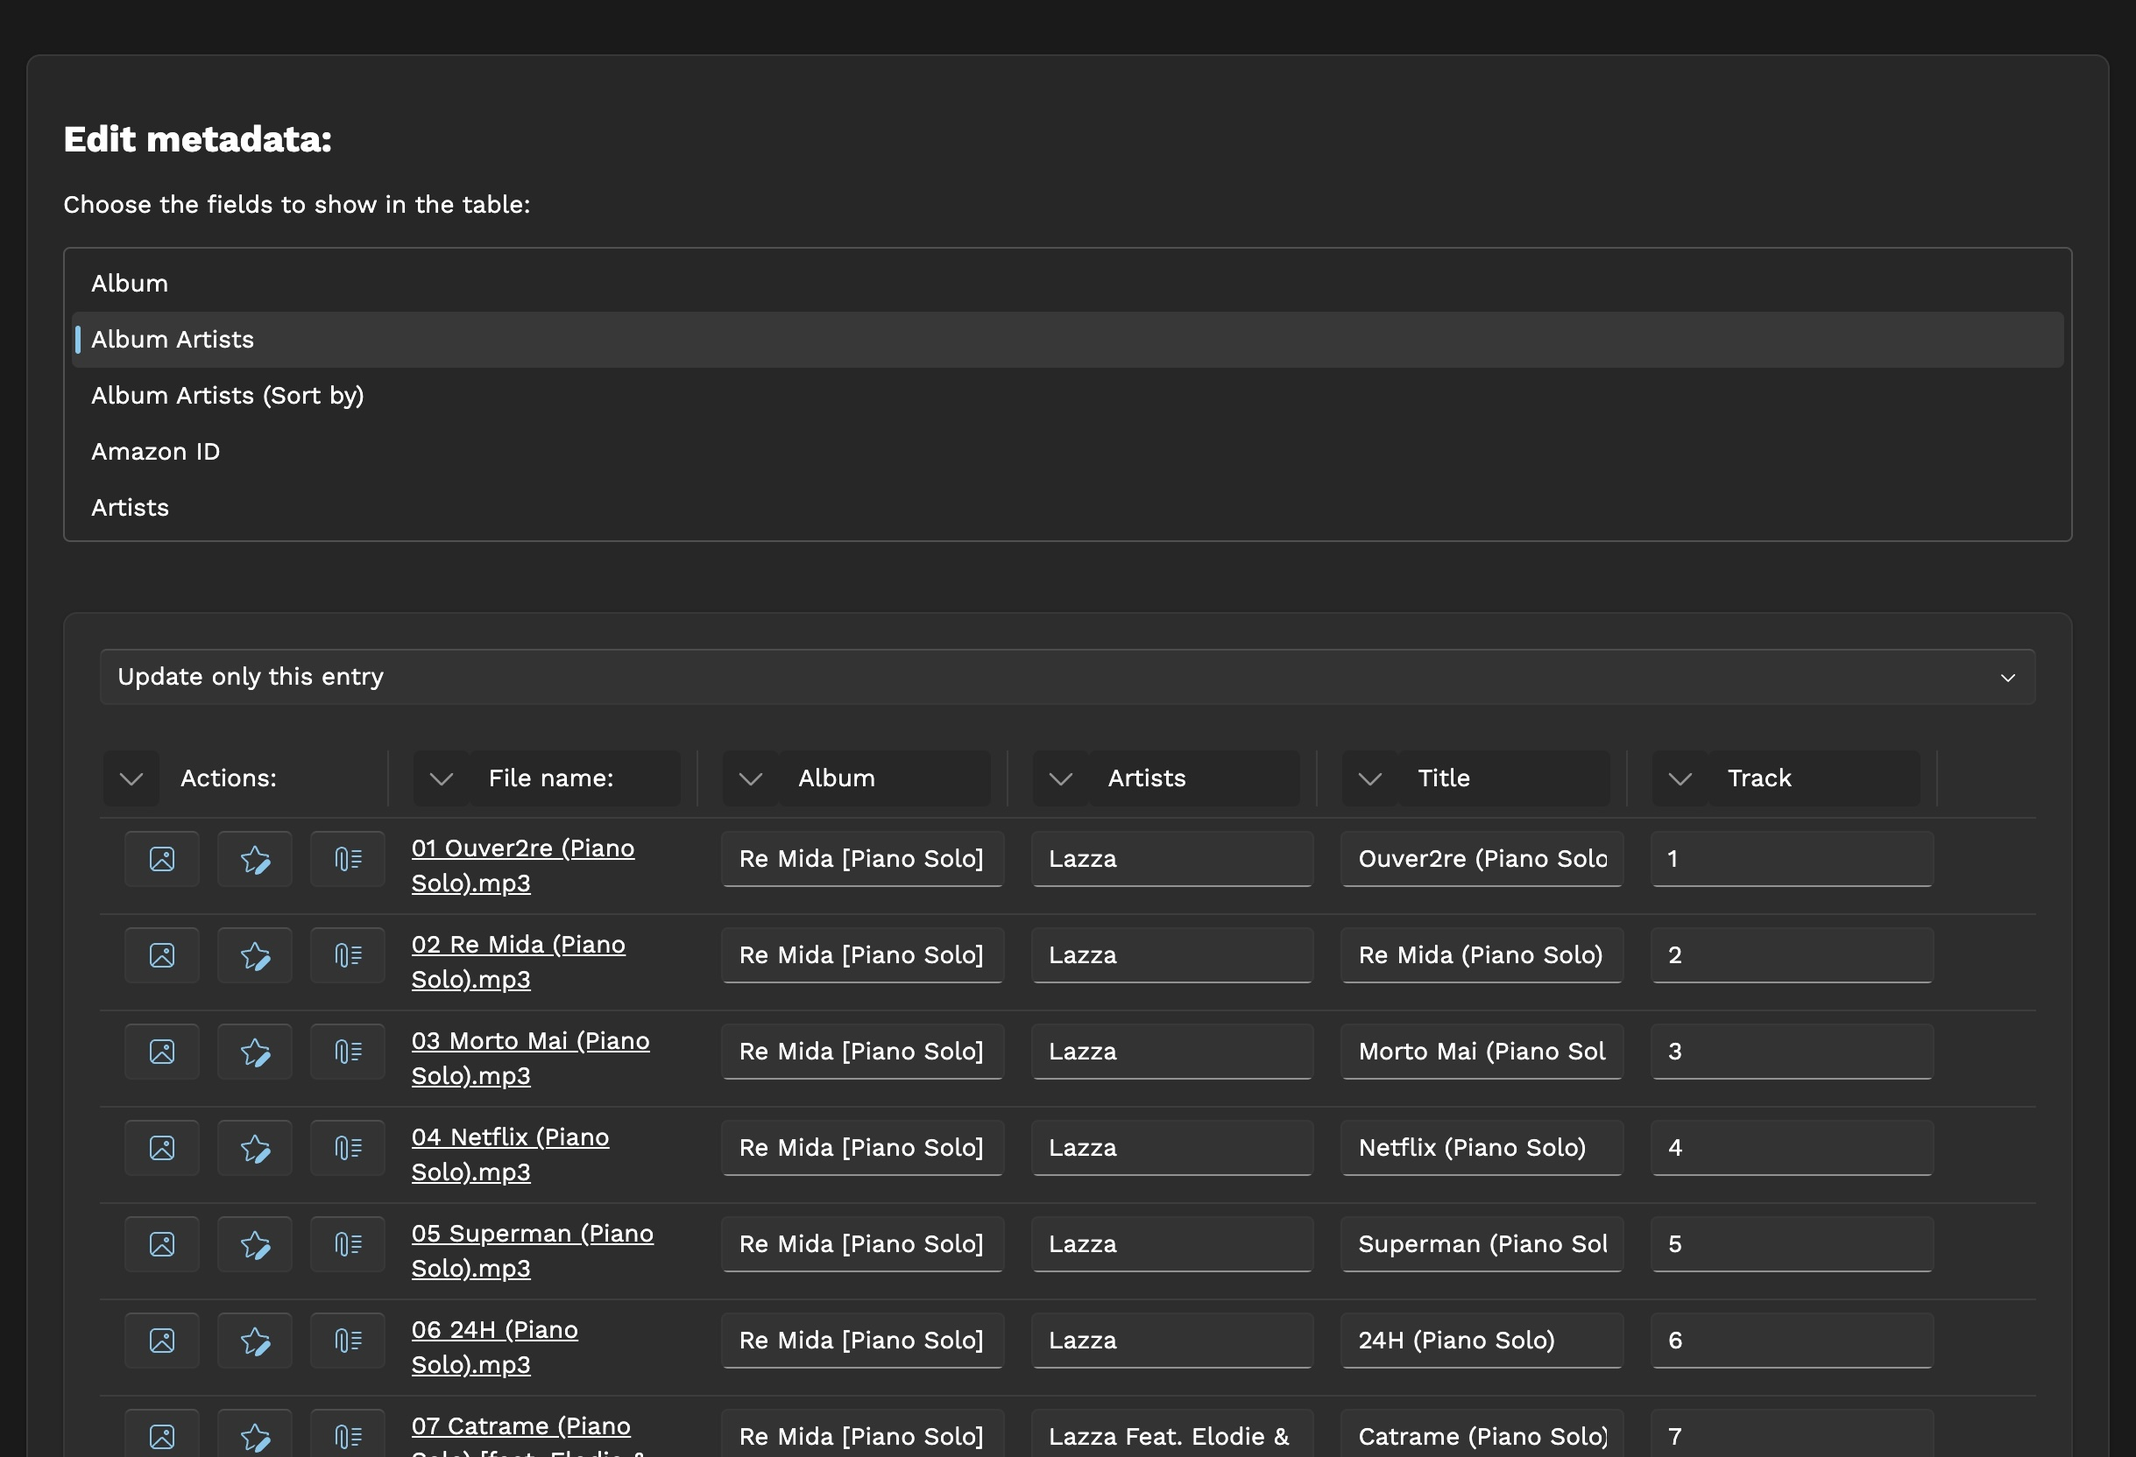
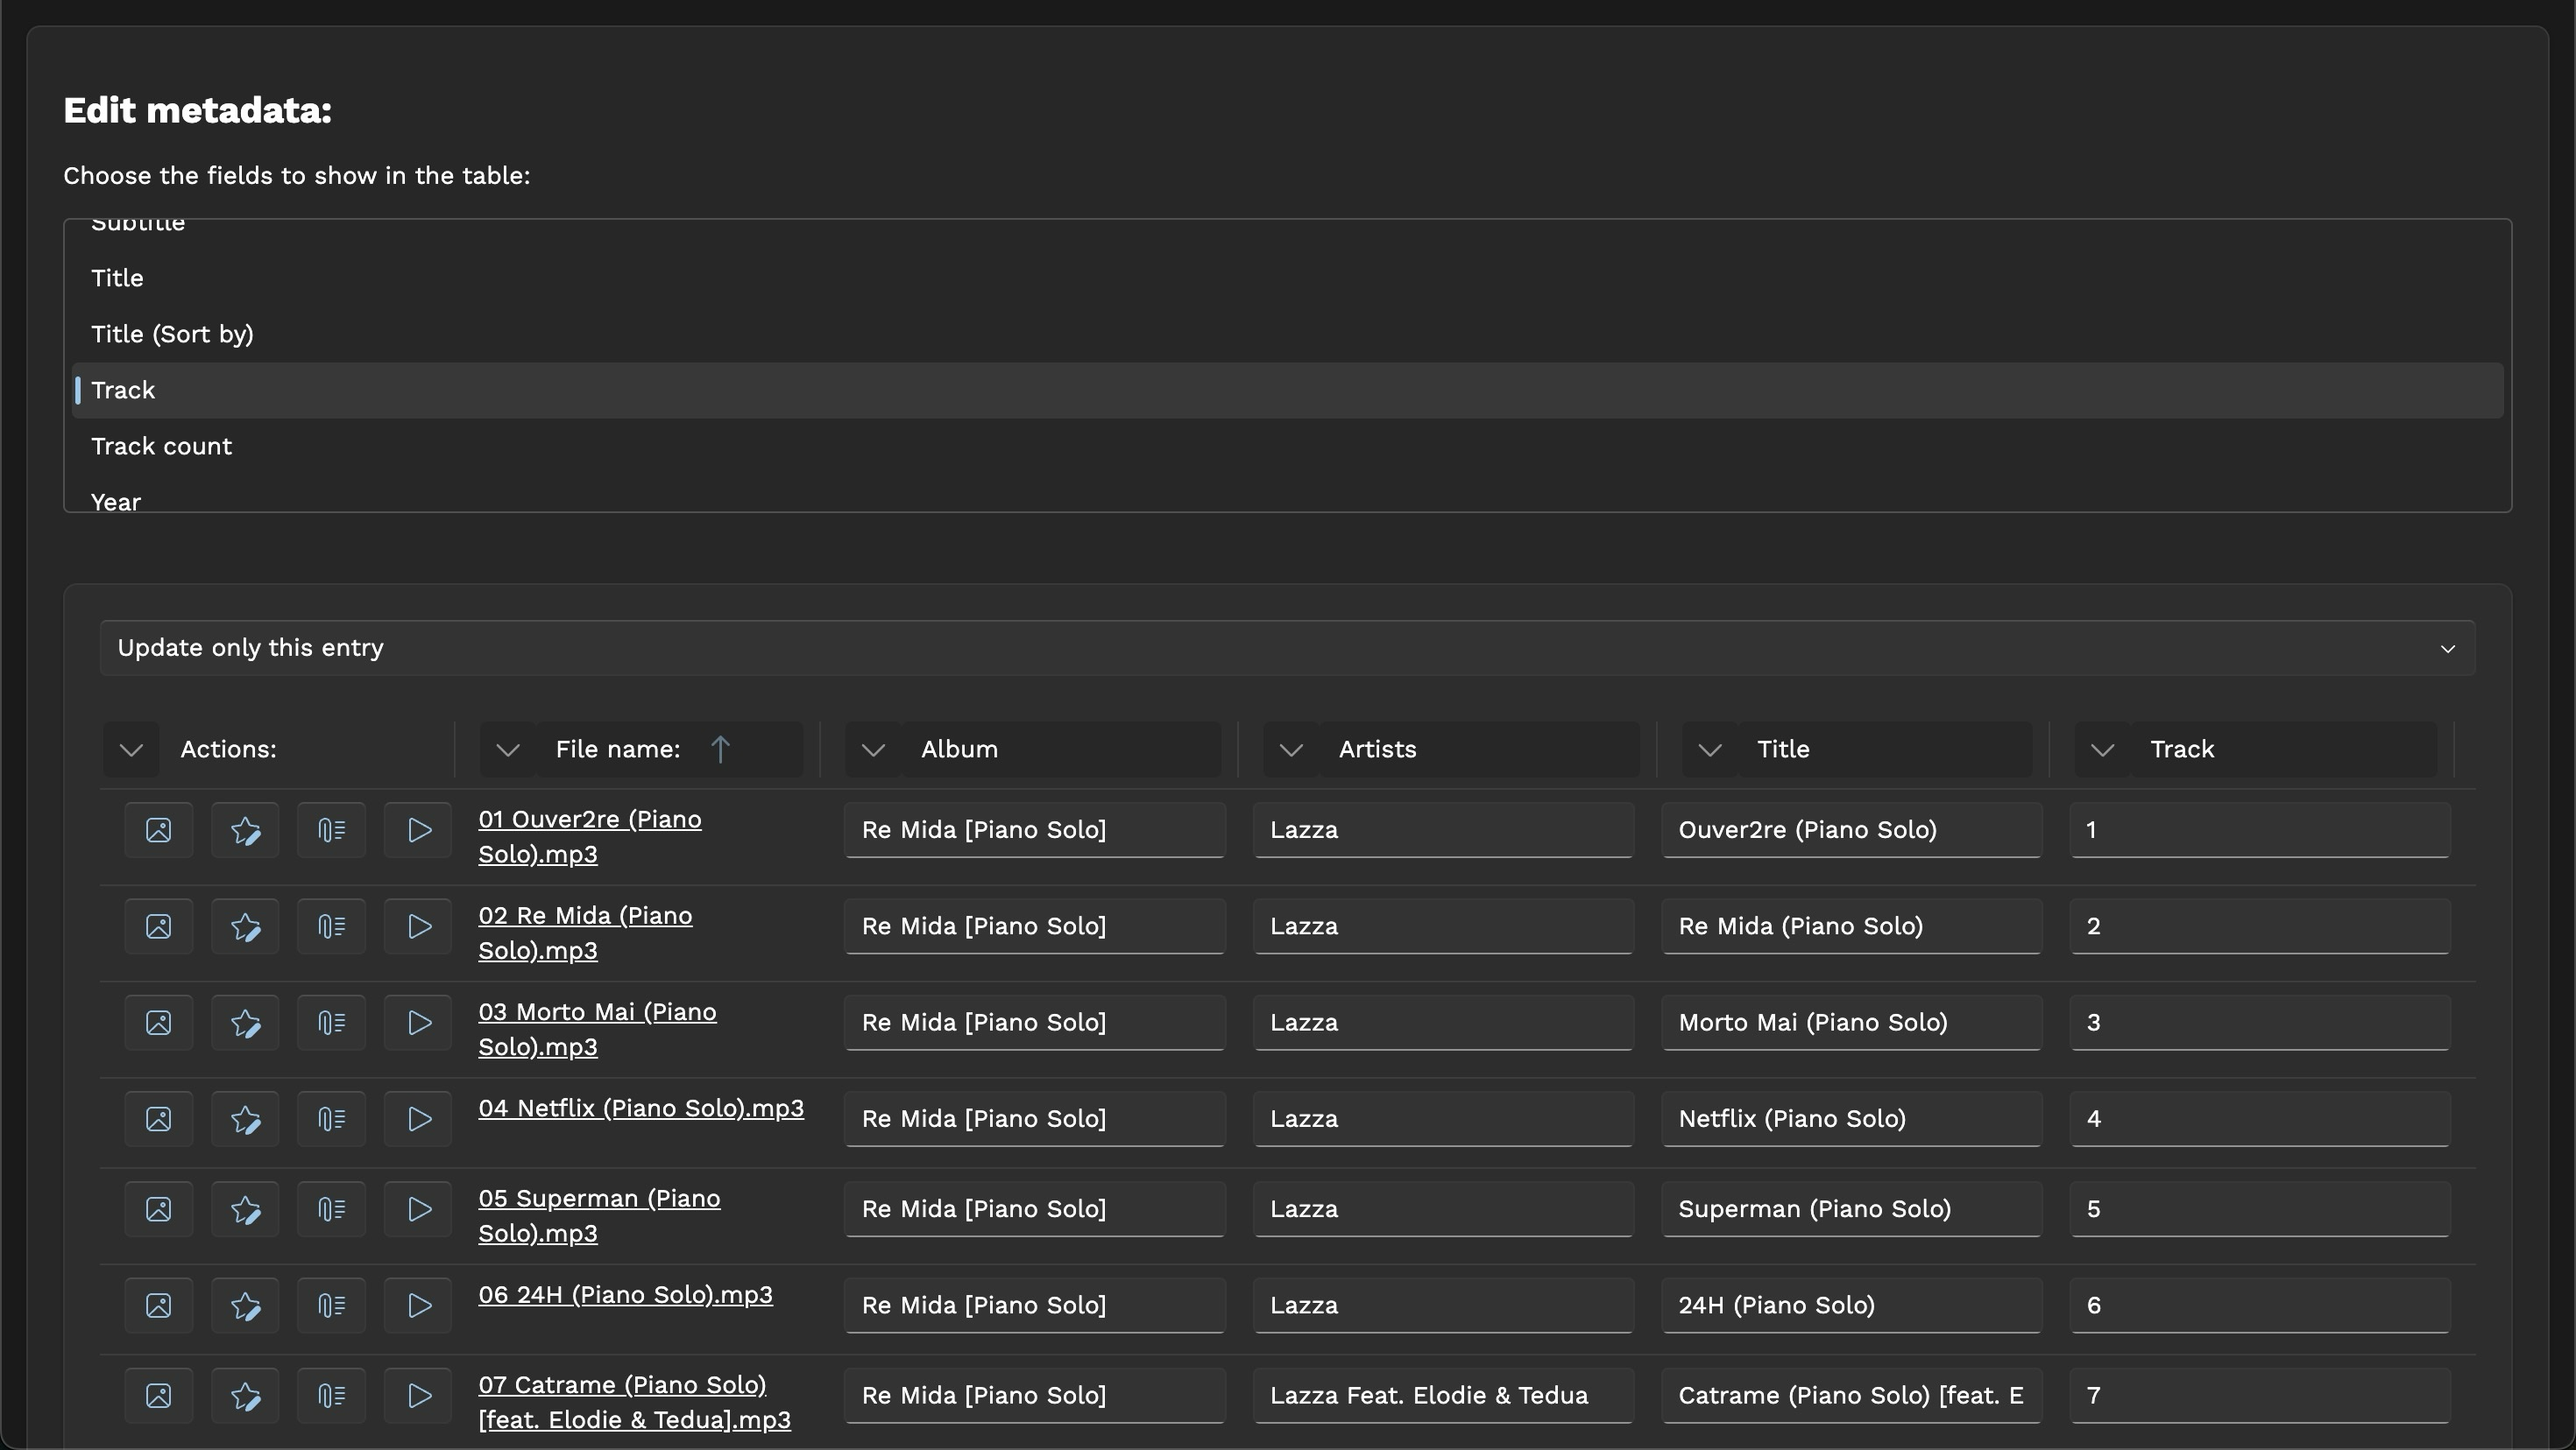
Improved "Update common album" function - Now the track count is updated only to items of the same album that are on the same disk - The disc number is updated only if it's "1" - Fixed a bug that updated all the Performers in the "Update common album fields" mode - Updated README with the new "Play 

diff --git a/wwwroot/index.html b/wwwroot/index.html
@@ -7,10 +7,6 @@
     <title>TagLibSharp-Web</title>
     <base href="./" />
     <link rel="stylesheet" href="css/app.css" />
-    <link rel="stylesheet" href="css/fonts/400-italic.css">
-    <link rel="stylesheet" href="css/fonts/400.css">
-    <link rel="stylesheet" href="css/fonts/700.css">
-    <link rel="stylesheet" href="css/fonts/700-italic.css">
     <link rel="icon" type="image/png" href="icon.svg" />
     <link href="MetadataChange.styles.css" rel="stylesheet" />
     <meta name="description"
@@ -103,7 +99,7 @@
             localStorage.setItem("TagLibWeb-UseGridUI", grid ? "a" : "b");
         }
         navigator.serviceWorker.register('service-worker.js', { scope: window.location.href.substring(0, window.location.href.lastIndexOf("/") + 1) });
-        const appVersion = "2.0.1";
+        const appVersion = "2.0.2";
         fetch("./updatecode", { cache: "no-store" }).then((res) => res.text().then((text) => { if (text.replace("\n", "") !== appVersion) if (confirm(`There's a new version of TagLibSharp-Web. Do you want to update? [${appVersion} --> ${text.replace("\n", "")}]`)) { caches.delete("taglibsharpweb-cache"); location.reload(true); } }).catch((e) => { console.error(e) })).catch((e) => console.error(e)); // Check if the application code is the same as the current application version and, if not, ask the user to update
 
         window.onbeforeunload = (event) => {

diff --git a/AvailableProperties.cs b/AvailableProperties.cs
@@ -46,7 +46,8 @@ namespace MetadataChange
         new("Album Artists", "AlbumArtists", PropertiesObject.PropertiesType.STRING_ARRAY),
         new ("Album Artists (Sort by)", "AlbumArtistsSort", PropertiesObject.PropertiesType.STRING_ARRAY),
         new ("Amazon ID", "AmazonID", PropertiesObject.PropertiesType.STRING),
-        new ("Artists", "Artists", PropertiesObject.PropertiesType.STRING_ARRAY),
+        new ("Artists", "Performers", PropertiesObject.PropertiesType.STRING_ARRAY),
+        new ("Artists (Sort by)", "PerformersSort", PropertiesObject.PropertiesType.STRING_ARRAY),
         new ("Comment", "Comment", PropertiesObject.PropertiesType.STRING_TEXTAREA),
         new ("Composers", "Composers", PropertiesObject.PropertiesType.STRING_ARRAY),
         new ("Composers (Sort by)", "ComposersSort", PropertiesObject.PropertiesType.STRING_ARRAY),

diff --git a/README.md b/README.md
@@ -26,7 +26,7 @@ buttons at the left:
 - The star icon will show you the `Custom metadata edtor` dialog. Here you can
   add a custom metadata (if the container is supported), see all the metadata that have been added to the audio/video file and also download all the fetched information by TagLib Sharp in either a JSON or CSV (really experimental) file.
 - The attachment text icon will show you the `Upload lyrics` dialog. Here you can either upload the lyrics from a local LRC/TTML/text file, or you can fetch them from LRCLib. In this last case, you can also download a zip file with the synced lyrics.
-
+- The play icon will show you the `Play audio/video` dialog.
 
 Before the table, you can find a dropdown menu: here you can choose 
 - If you want to edit only the single entry;
@@ -44,9 +44,7 @@ metadata field to edit manually.
 
 ![Single file view UI](./readme_assets/single_metadata_ui.jpg)
 
-In this UI, the three dialogs mentioned above can be
-accessed by clicking on the `Edit other metadata` dropdown button. In both of the UIs you'll
-find a third button, "Copy metadata", that allows you to copy metadata from a
+In this UI, the four dialogs mentioned above can be opened by clicking on the `Edit other metadata` dropdown button. In both of the UIs you'll find a third button, "Copy metadata", that allows you to copy metadata from a
 file to another. You can find more about this below.
 
 ### Saving the edits
@@ -179,6 +177,11 @@ album art. You can also choose to avoid copying metadata fields that are usually
 With this dialog, you can update the lyrics of either the file you've chosen, or all the files loaded in the application, or all the files with no lyrics from either a local file (LRC, TTML and plain text files are supported) or by fetching them from LRCLib. In this last case, you can also save the synced lyrics in a .LRC file that'll be downloaded on your device.
 
 ![The lyrics upload UI](./readme_assets/lyrics_upload.jpg)
+
+### Play audio/video
+If you're not sure about the audio or video file you've picked, you can view it using the browser's native Video or Audio controls. You'll also find below the audio/video content the most important metadata.
+
+![The audio player UI](./readme_assets/audio_player.jpg)
 
 ## Settings
 
